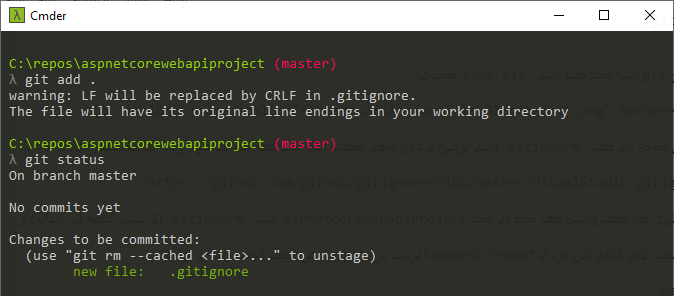
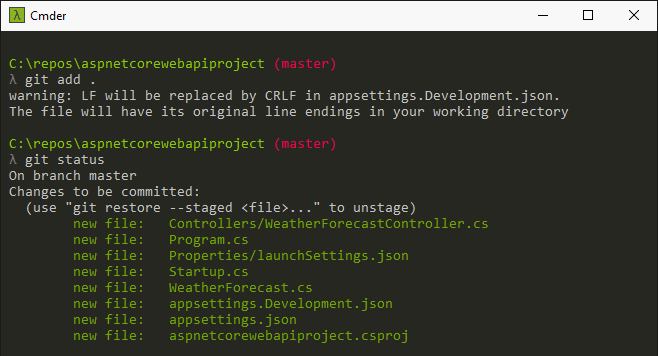
a01: creates new webapi project

Changed region(s): [[0.0, 0.152, 0.8815, 0.973], [0.0, 0.0, 1.0, 0.1216]]

diff --git a/_posts/2020-04-02-setup-and-installation.md b/_posts/2020-04-02-setup-and-installation.md
@@ -95,8 +95,9 @@ git config --list
 
 {% include image.html url="assets/files/article_01/vscode-how-to-install-an-extension.png" border="1" %}
 
+## []()تهيئة المشروع
 
-## []()إنشاء المشروع
+## تهيئة المشروع
 
 يكون لدي في العادة مجلد إسمه repos أحفظ فيه جميع المشاريع البرمجية. فإن لم يكن موجود قم بالتالي:
 
@@ -128,13 +129,43 @@ git init
 
 {% include image.html url="assets/files/article_01/git-init.png" border="1" %}
 
-نحن الآن بحاجة الى ملف `.gitignore` والتى توضح لـ git ماهي الملفات التي يجب عليه عدم متابعتها. وبما أننا سنستخدم VS Code فإنه بإمكاننا إستخدام الملف التالي:
+نحن الآن بحاجة الى ملف `.gitignore` والتى توضح لـ git ماهي الملفات التي يجب عليه عدم متابعتها. ولنقوم بذلك نستخدم الأمر التالي:
+
+```bash
+dotnet new gitignore
+```
+
+<!--
 
 <https://github.com/github/gitignore/blob/master/VisualStudio.gitignore>
 
 انسخ محتوى هذا الملف وأنشئ ملف جديد في مجلد aspnetcorewebapiproject بإسم `.gitignore` (لا تنسى النقطة في البداية) وألصق المحتوى داخل هذا الملفز
 
-لو أستخدمت الأمر التالي الآن من الـ Command Prompt لرأيت بأن git يعلم عن الملف الجديد ولكنه لا يراقبه:
+-->
+
+## []()إنشاء المشروع
+
+سنستخدم الآن الأداة `dotnet` لإنشاء المشروع. ولرؤية أنواع المشاريع التي بإمكان هذه الأداة إنشائها إستخدم الأمر التالي:
+
+```bash
+dotnet new -h
+```
+
+{% include image.html url="assets/files/article_01/dotnet-new-h.png" border="1" %}
+
+المشروع الذي نرغب في إنشاؤه من نوع ASP.NET Core Web API ولذلك ننفذ الأمر التالي:
+
+```bash
+dotnet new webapi
+```
+
+{% include image.html url="assets/files/article_01/dotnet-new-webapi.png" border="1" %}
+
+بإمكاننا أن نرى الملفات الجديدة التي تم إنشاؤها:
+
+{% include image.html url="assets/files/article_01/ls-after-creating-project.png" border="1" %}
+
+ولو أستخدمت الأمر التالي لرأيت بأن git يعلم عن الملفات الجديدة ولكنه لا يراقبها:
 
 ```bash
 git status
@@ -142,7 +173,7 @@ git status
 
 {% include image.html url="assets/files/article_01/git-status-before-add.png" border="1" %}
 
-ثم ننفذ الأمر التالي لإضافة الملف الجديد الى منطقة الـ staging الخاصة بـ git:
+ثم ننفذ الأمر التالي لإضافة الملفات الجديدة الى منطقة الـ staging الخاصة بـ git:
 
 ```bash
 git add .
@@ -157,3 +188,5 @@ git commit -m "initial commit"
 ```
 
 {% include image.html url="assets/files/article_01/git-commit.png" border="1" %}
+
+
